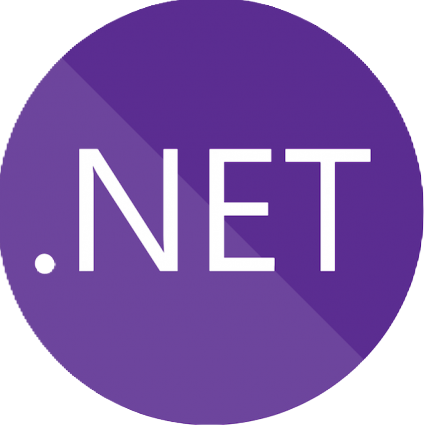
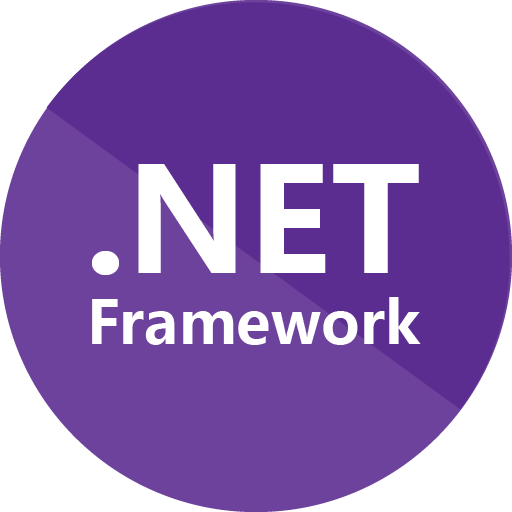
Added interests file back, updated .net image

diff --git a/sams-website/src/app/interests/page.tsx b/sams-website/src/app/interests/page.tsx
@@ -1,0 +1,324 @@
+"use client";
+
+import React, { useState, useEffect } from "react";
+import { CssBaseline, Box, Typography, Modal, IconButton, Link } from "@mui/material";
+import ZoomInIcon from "@mui/icons-material/ZoomIn";
+import ExpandMoreIcon from "@mui/icons-material/ExpandMore";
+import Header from "../../components/Header";
+import NavigationDrawer from "../../components/NavigationDrawer";
+import CloseIcon from "@mui/icons-material/Close";
+
+interface Project {
+  title: string;
+  description: string;
+  mediaUrl: string;
+  mediaType: "image" | "video";
+  technologies: string[];
+  maxTextHeight: number; // Max height before cut off
+}
+
+const projects: Project[] = [
+  {
+    title: "Weld Access Verification Tool",
+    description: "The AGT Robotics BeamMaster WAV (Weld Access Verification) Tool is an innovative Tekla plugin that revolutionizes weld planning in steel fabrication. By automatically integrating true-to-scale weld arm models into your Tekla environment, this powerful tool allows designers and engineers to visualize real-world welding scenarios, instantly identify potential access issues, and optimize projects for AGT BeamMaster robotic welding systems. I worked on this application during my time at Exact Detailing with one other co-op student. We found ourselves incredibly dedicated to the completion of this project and were able to complete and publish it over the course of our 4-month internships. We picked up the project from where some previous students had left off but wound up reworking most of the application due to changing business goals and project requirements. Working closely with AGT Robotics, we were able to publish this to an online catalog where it can be downloaded for use by anybody with a Tekla license.",
+    mediaUrl: "/videos/WAVDemo.mp4",
+    mediaType: "video",
+    technologies: ["C#", ".NET", "WPF", "Windows Forms"],
+    maxTextHeight: 253, // Example max height for this project description
+  },
+  {
+    title: "VirtualER",
+    description: "This web-based application allows patients to easily find wait times of nearby emergency rooms to meet their medical needs. The project consisted of both a full implementation of the product as well as a detailed requirements phase, diagrams, and project planning. The project was for a Software Architecture class, but our design, tools used, approach, and system was all original work from our 4 person team. I would have liked to spend more time consulting with healthcare workers in order to more closely meet the needs of the actual healthcare field rather than the project requirements that were outlined. I am confident that we met the requirements for the scope of our project, but I feel like the application would need some serious overhauls to be used in any sort of workplace. One thing that I believe is a bit of an oversight with this project is that many workplaces simply don't have the staff to support an app like this. It requires too much help from ER staff to run properly and in order to be automated there are serious ethical and legal considerations involved.",
+    mediaUrl: "/images/VirtualER.png",
+    mediaType: "image",
+    technologies: ["Next.js", "React", "Tailwind CSS", "ShadCN Component Library"],
+    maxTextHeight: 205,
+  },
+  {
+    title: "Automated Feedback for Engineering",
+    description: "In the Summer of 2022 an advisor within the faculty of engineering reached out to me suggesting that I apply for a research grant based on my academic standing. Together with Dr. Flavio Firmani, I applied for funding towards a joint research project in order to provide students with automated feedback for homework problems and improve learning outcomes. Dr. Firmani identified that students frequently make similar mistakes, but due to the volume of students, individualized feedback was impossible. This led to our research into both diagnosing frequent mistakes made by students and into the kinds of tools we had available to improve the learning outcomes based on patterns we found. After gaining some insight into frequent problems made by students, we looked into the tools provided within WeBWork, the online homework system used for the statics class we were investigating. The main outcomes of our research included generating graphs for students automatically based on their inputs to provide a visual aid and automated feedback messages for various pre-defined inputs. Given more time, I would've liked to collect data based on student submissions in order to better categorize common mistakes.",
+    mediaUrl: "/images/VKURA.jpg",
+    mediaType: "image",
+    technologies: ["Perl", "WeBWork", "PG"],
+    maxTextHeight: 350,
+  },
+  {
+    title: "Personal Website",
+    description: "After several years of toying with the idea of coding a website myself amongst a busy school schedule I made time to practice my development skills with web-based applications. The result is this portfolio of my education, work, skills, and projects that I am especially passionate about. Following the development of VirtualER, I wanted to create a Next.js application to function as a personal website while I was still learning these new technologies. I am very happy with how it turned out and welcome any feedback! Click on my icon or visit the contact me page to reach out and let me know what you think!",
+    mediaUrl: "/images/Website.png",
+    mediaType: "image",
+    technologies: ["Next.js", "React", "Tailwind CSS", "MaterialUI"],
+    maxTextHeight: 240,
+  },
+  {
+    title: "Business Analytics Improvement Plan",
+    description: "",
+    mediaUrl: "/images/RealTime.png",
+    mediaType: "image",
+    technologies: ["Figma", "Markdown"],
+    maxTextHeight: 250,
+  },
+  {
+    title: "Autonmous IR Detection Robot",
+    description: "This project involved building a robot as a prototype for an autonomous underwater vehicle able to position a debris cleaning device on top of underwater cameras and sensors. The task required of this robot was to locate a randomly placed infrared emitter in an enclosed space, approach it, and drop a ping-pong ball on top of it without it falling off. As can be seen in the image of our robot design, we have an arm that extends in front of the robot with gears that twist open to drop the ball on the target. I assisted with the electrical work, design, and overall construction of the robot, but my biggest contribution was designing a finite state machine for our workflow and implementing that in code. Our robot was one of few able to pass all tests consistently without hitting any walls or the target.",
+    mediaUrl: "/images/Robot.jpg",
+    mediaType: "image",
+    technologies: ["RobotC", "C"],
+    maxTextHeight: 320,
+  },
+];
+
+export default function ProjectsPage() {
+  const [drawerOpen, setDrawerOpen] = useState(false);
+  const [open, setOpen] = useState(false);
+  const [selectedImage, setSelectedImage] = useState<string | null>(null);
+  const [expandedProject, setExpandedProject] = useState<string | null>(null);
+
+  const toggleDrawer = () => {
+    setDrawerOpen(!drawerOpen);
+  };
+
+  const handleImageClick = (url: string) => {
+    setSelectedImage(url);
+    setOpen(true);
+  };
+
+  const handleCloseModal = () => {
+    setOpen(false);
+    setSelectedImage(null);
+  };
+
+  const toggleProjectExpansion = (title: string) => {
+    if (expandedProject === title) {
+      setExpandedProject(null);
+    } else {
+      setExpandedProject(title);
+    }
+  };
+
+  useEffect(() => {
+    if (open) {
+      document.body.style.overflow = "hidden";
+      document.documentElement.style.overflow = "hidden";
+    } else {
+      document.body.style.overflow = "auto";
+      document.documentElement.style.overflow = "auto";
+    }
+
+    return () => {
+      document.body.style.overflow = "auto";
+      document.documentElement.style.overflow = "auto";
+    };
+  }, [open]);
+
+  return (
+    <>
+      <CssBaseline />
+      <Header onDrawerToggle={toggleDrawer} />
+      <NavigationDrawer drawerOpen={drawerOpen} toggleDrawer={toggleDrawer} />
+
+      <Box sx={{ display: "flex", width: "100%" }}>
+        <Box
+          sx={{
+            width: "10%",
+            backgroundColor: "#1c375d",
+            minHeight: "100vh",
+            position: "fixed",
+            top: 0,
+            left: 0,
+            zIndex: 1,
+          }}
+        />
+
+        <Box sx={{ flex: 1, marginLeft: "10%", marginRight: "10%" }}>
+          {projects.map((project, index) => (
+            <Box key={project.title}>
+              <Box
+                sx={{
+                  display: "flex",
+                  flexDirection: index % 2 === 0 ? "row" : "row-reverse",
+                  marginBottom: "0px",
+                  alignItems: "flex-start",
+                }}
+              >
+                <Box sx={{ flex: 1, padding: "20px" }}>
+  {/* Project Title (No Expand Button Here) */}
+  <Typography variant="h5">{project.title}</Typography>
+
+  {/* Description Section */}
+  <Box
+    sx={{
+      maxHeight: expandedProject === project.title ? "none" : `${project.maxTextHeight}px`,
+      overflow: "hidden",
+      position: "relative",
+      paddingBottom: expandedProject !== project.title ? "40px" : "0px", // Extra space for the button
+    }}
+  >
+    <Typography variant="body1">
+      {project.title === "Business Analytics Improvement Plan" ? (
+        <>
+          This project consisted of eliciting requirements from a company for software development improvements they desired and developing a prototype based on the requirements. 
+          We worked with a company called Real Time Networks to elicit requirements and create a requirements document for the software they wanted, as well as prototyping a potential solution. 
+          Their company contained numerous departments: marketing, manufacturing, accounting, and installation, and each department managed its own data footprint independently. 
+          The software solution they wanted was a centralized data analytics dashboard to better concentrate their data footprint. This would allow management to be better informed
+          of the work and ongoings of various departments from a single place. We developed an entire prototype for a web-based platform
+          combining their data analytics and platforms as well as suggesting how to implement it with various APIs.
+          <br />
+          You can take a look at the complete requirements document as well as some of the prototype&#39;s features at the bottom of it{" "}
+          <Link href="https://github.com/samnelson7/Requirements-Engineering/blob/main/RD.md">
+            here
+          </Link>.
+        </>
+      ) : (
+        project.description
+      )}
+    </Typography>
+
+    {/* Gradient Fade Effect at Bottom */}
+    {expandedProject !== project.title && (
+      <Box
+        sx={{
+          position: "absolute",
+          bottom: 0,
+          left: 0,
+          width: "100%",
+          height: "40px", // Only adds height, no intersection
+          background: "linear-gradient(to top, white, rgba(255,255,255,0))",
+        }}
+      />
+    )}
+  </Box>
+
+  {/* Fully Below Text in Padding Area */}
+  {/* Expand Button (Always Present for Each Project) */}
+{expandedProject !== project.title && (
+  <Box sx={{ display: "flex", justifyContent: "center", marginTop: "0px" }}>
+    <IconButton onClick={() => toggleProjectExpansion(project.title)}>
+      <ExpandMoreIcon />
+    </IconButton>
+  </Box>
+)}
+
+
+  {/* Technologies Section (Only visible when expanded) */}
+  {expandedProject === project.title && (
+    <Box sx={{ marginTop: "10px", paddingLeft: "10px" }}>
+      <Typography variant="subtitle1" sx={{ fontWeight: "bold" }}>Technologies Used:</Typography>
+      <ul>
+        {project.technologies.map((tech, idx) => (
+          <li key={idx}>
+            <Typography variant="body2">{tech}</Typography>
+          </li>
+        ))}
+      </ul>
+    </Box>
+  )}
+</Box>
+
+
+                {/* Media Section (Image/Video) */}
+                <Box sx={{ flex: 1, padding: "20px", maxWidth: "50%", position: "relative" }}>
+                  {project.mediaType === "image" ? (
+                    <Box sx={{ position: "relative", display: "inline-block" }}>
+                      <img
+                        src={project.mediaUrl}
+                        alt={project.title}
+                        style={{ width: "100%", height: "auto", cursor: "pointer" }}
+                        onClick={() => handleImageClick(project.mediaUrl)}
+                      />
+                      <IconButton
+                        sx={{
+                          position: "absolute",
+                          bottom: 10,
+                          right: 10,
+                          backgroundColor: "rgba(0,0,0,0.6)",
+                          color: "white",
+                          "&:hover": { backgroundColor: "rgba(0,0,0,0.8)" },
+                        }}
+                        onClick={() => handleImageClick(project.mediaUrl)}
+                      >
+                        <ZoomInIcon />
+                      </IconButton>
+                    </Box>
+                  ) : (
+                    <video width="100%" height="auto" controls>
+                      <source src={project.mediaUrl} type="video/mp4" />
+                      Your browser does not support the video tag.
+                    </video>
+                  )}
+                </Box>
+              </Box>
+
+              {index < projects.length - 1 && (
+                <hr style={{ margin: "20px 0", borderColor: "#ccc", borderWidth: "1px", borderStyle: "solid" }} />
+              )}
+            </Box>
+          ))}
+        </Box>
+
+        <Box
+          sx={{
+            width: "10%",
+            backgroundColor: "#1c375d",
+            minHeight: "100vh",
+            position: "fixed",
+            top: 0,
+            right: 0,
+            zIndex: 1,
+          }}
+        />
+      </Box>
+
+      {/* Fullscreen Modal for Image */}
+      <Modal
+        open={open}
+        onClose={handleCloseModal}
+        sx={{
+          display: "flex",
+          justifyContent: "center",
+          alignItems: "center",
+        }}
+        onClick={handleCloseModal}
+      >
+        <Box
+          sx={{
+            position: "relative",
+            maxWidth: "100%",
+            maxHeight: "100%",
+            overflow: "auto",
+            backgroundColor: "rgba(0, 0, 0, 0.8)",
+          }}
+        >
+          <IconButton
+            sx={{
+              position: "absolute",
+              top: 10,
+              right: 10,
+              color: "white",
+              zIndex: 2,
+              backgroundColor: "rgba(0,0,0,0.5)",
+              "&:hover": {
+                backgroundColor: "rgba(0, 0, 0, 0.7)",
+              },
+            }}
+            onClick={handleCloseModal}
+          >
+            <CloseIcon />
+          </IconButton>
+
+          <img
+            src={selectedImage || ""}
+            alt="Selected project"
+            style={{
+              width: "100%",
+              height: "auto",
+              maxHeight: "100vh",
+              objectFit: "contain",
+            }}
+            onClick={handleCloseModal}
+          />
+        </Box>
+      </Modal>
+    </>
+  );
+}
